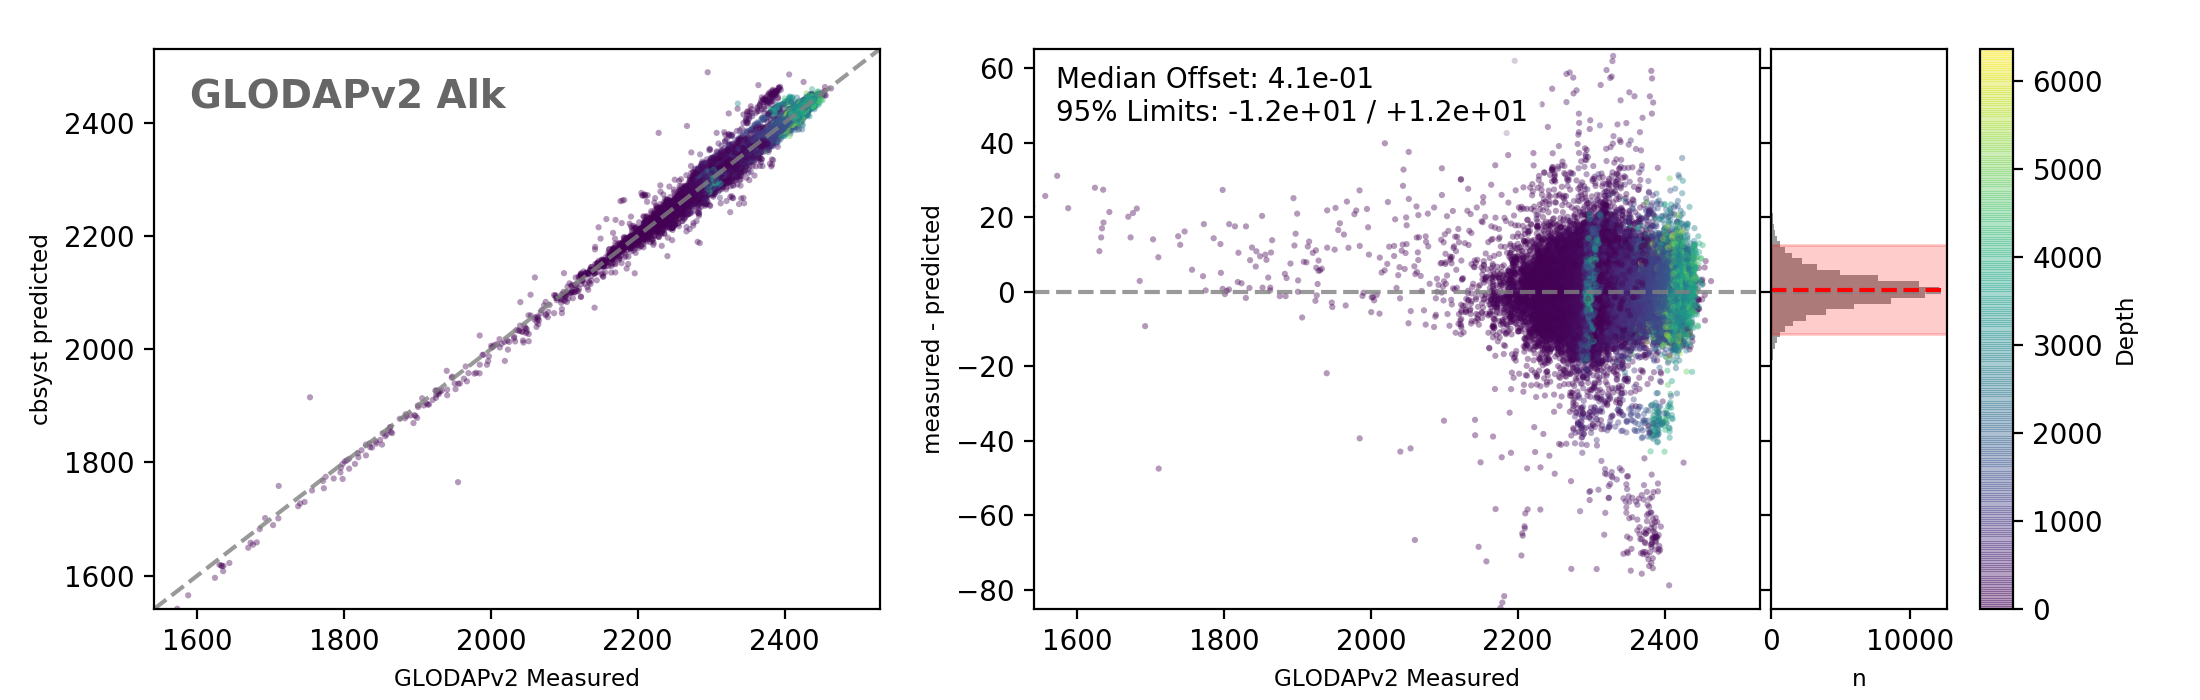
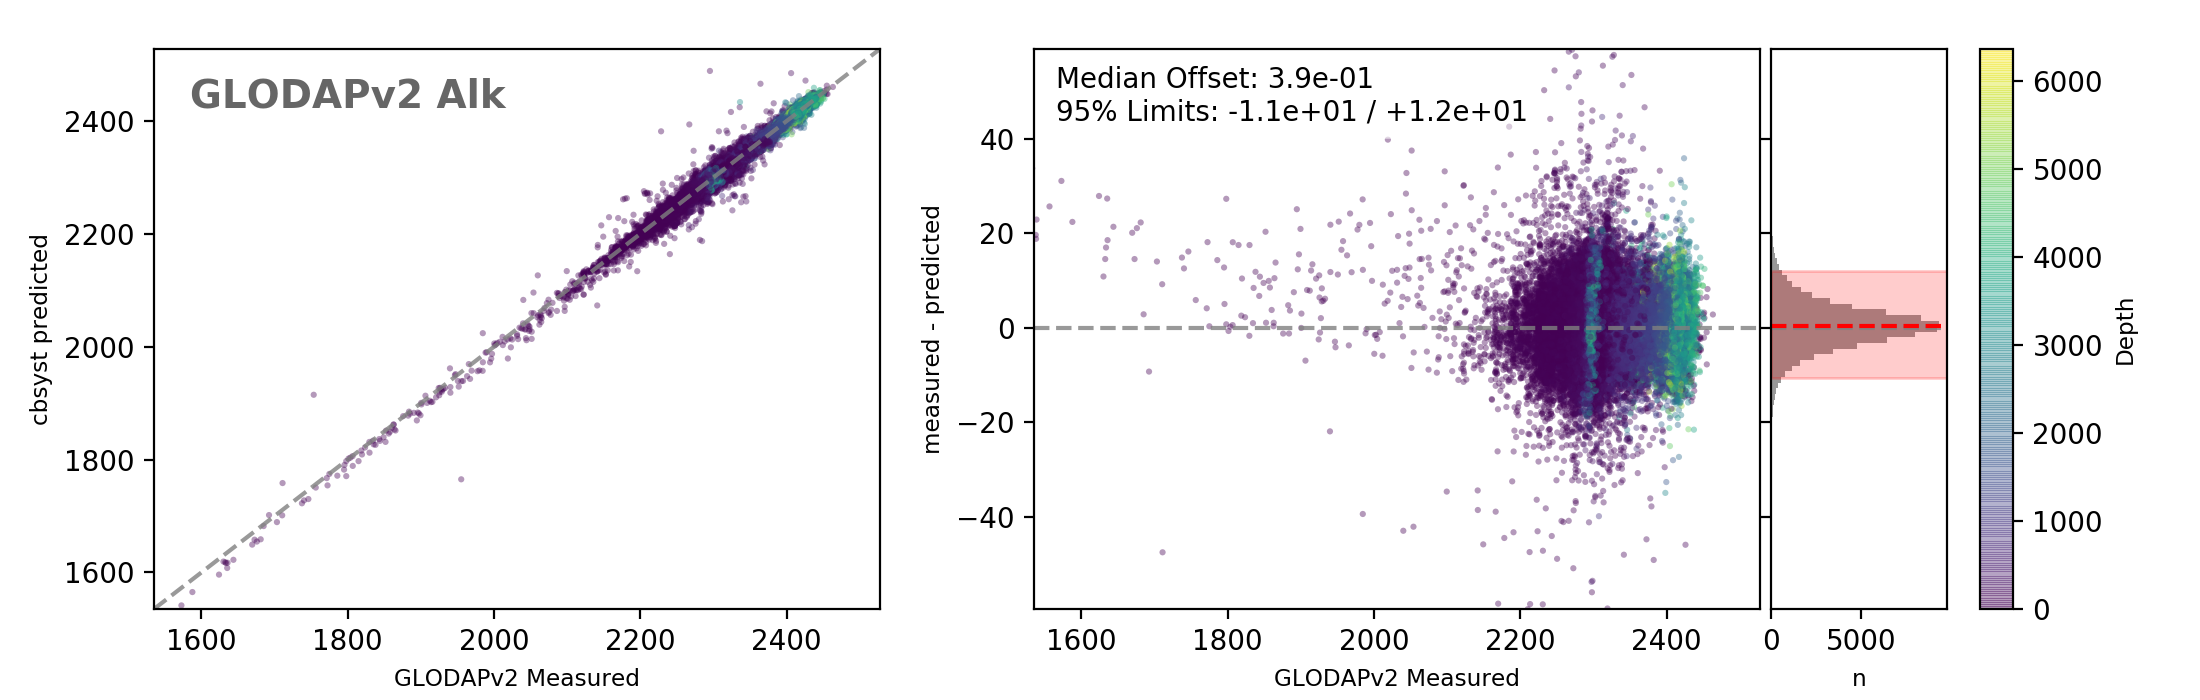
Readme and plot comparison update.
Changed:
 - Excluded weird data from cruise 270.

diff --git a/test_cbsyst.py b/test_cbsyst.py
@@ -395,6 +395,9 @@ class ReferenceDataTestCase(unittest.TestCase):
                           'pressure', 'phosphate', 'silicate'], inplace=True)
         gd.pressure /= 10  # convert pressure to bar
 
+        # exclude weird cruise 270 data
+        gd = gd.loc[gd.cruise != 270]
+
         # calculate pH from TA and DIC
         cpH = Csys(TA=gd.talk, DIC=gd.tco2, T=gd.temperature, S=gd.salinity,
                    P=gd.pressure, TP=gd.phosphate, TSi=gd.silicate, BT=415.7)

diff --git a/cbsyst/test_data/GLODAP_data/plot_GLODAPv2_comparison.py b/cbsyst/test_data/GLODAP_data/plot_GLODAPv2_comparison.py
@@ -25,6 +25,9 @@ def GLODAPv2_comparison(figdir='.'):
                       'pressure', 'phosphate', 'silicate'], inplace=True)
     gd.pressure /= 10  # convert pressure to bar
 
+    # exclude weird cruise 270 data
+    gd = gd.loc[gd.cruise != 270]
+
     # Do the work...
     print('Calculating pH from DIC and TA...')
     cpH = cb.Csys(TA=gd.talk, DIC=gd.tco2, T=gd.temperature, S=gd.salinity, P=gd.pressure, TP=gd.phosphate, TSi=gd.silicate, BT=415.7)

diff --git a/README.md b/README.md
@@ -41,13 +41,13 @@ The code used to process the raw GLODAPv2 data is available [here](cbsyst/test_d
 Next, calculate the carbonate system from sets of two of the measured carbonate parameters, and compare the calculated third parameter to the measured third parameter (i.e. calculate Alkalinity from pH and DIC, then compared calculated vs. measured Alkalinities). The code for making these comparison plots is [here](cbsyst/test_data/GLODAP_data/plot_GLODAPv2_comparison.py).
 
 ### Results:
-**Predicted pH** (from DIC and Alkalinity) is offset from measured values by -0.0011 (-0.031/+0.029).
+**Calculated pH** (from DIC and Alkalinity) is offset from measured values by -0.0011 (-0.030/+0.027).
 ![Calculated vs Measured pH](cbsyst/test_data/GLODAP_data/Figures/pH_comparison.png)
 
-**Predicted Alkalinity** (from pH and DIC) is offset from measured values by 0.41 (-12/+12) umol/kg.
+**Calculated Alkalinity** (from pH and DIC) is offset from measured values by 0.39 (-11/+12) umol/kg.
 ![Calculated vs Measured TA](cbsyst/test_data/GLODAP_data/Figures/TA_comparison.png)
 
-**Predicted DIC** (from pH and Alkalinity) is offset from measured values by -0.39 (-12/+11) umol/kg.
+**Calculated DIC** (from pH and Alkalinity) is offset from measured values by -0.38 (-11/+10) umol/kg.
 ![Calculated vs Measured DIC](cbsyst/test_data/GLODAP_data/Figures/DIC_comparison.png)
 
 Reported statistics are median ±95% confidence intervals extracted from the residuals (n = 79,896).
